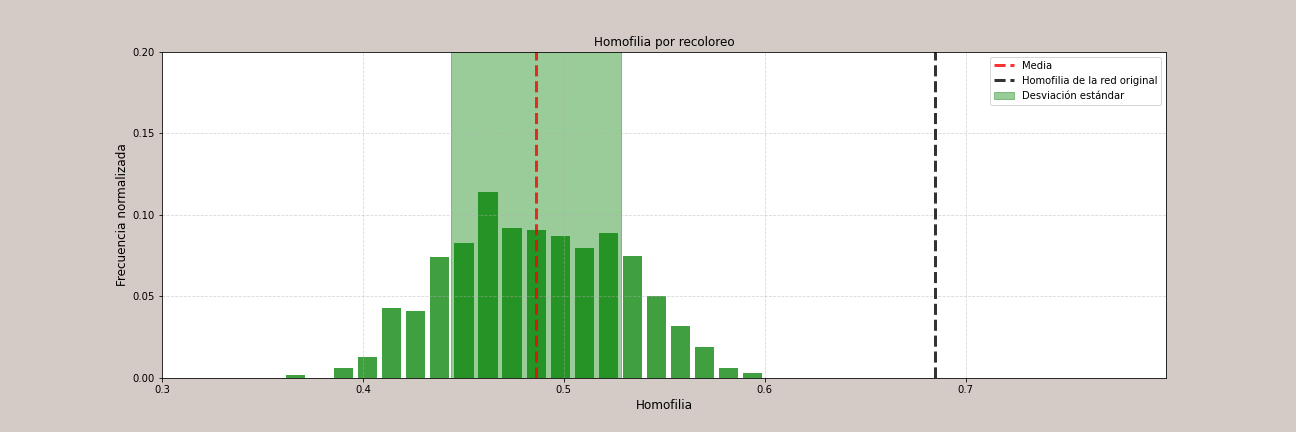
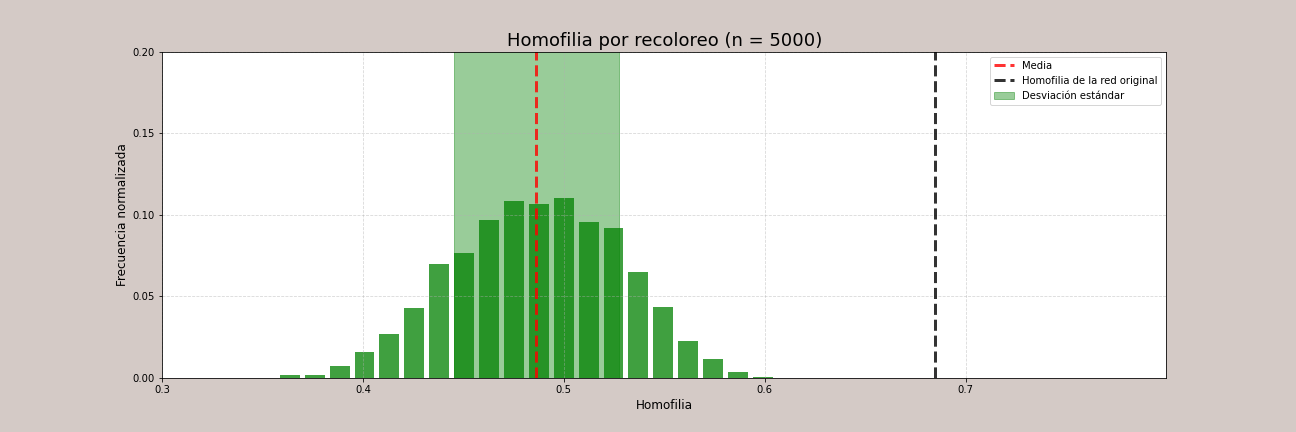
cambiio

Changed region(s): [[0.3395, 0.4213, 0.5864, 0.8727], [0.4012, 0.0602, 0.6481, 0.1204], [0.2469, 0.6921, 0.3395, 0.8727]]

diff --git a/Analisis de la red.py b/Analisis de la red.py
@@ -35,7 +35,7 @@ plt.xlabel("Grado",fontsize = 16)
 plt.ylabel("Cantidad de nodos",fontsize = 16)
 plt.tick_params(axis='both', which='major', labelsize=14)
 plt.title("Distribución de grado (log-log)")
-plt.savefig("distribucion de grado.png")
+# plt.savefig("distribucion de grado.png")
 plt.show()
 
 
@@ -64,7 +64,7 @@ G_copia = G.copy()
 lista_genero = [i[1]["genero"] for i in G.nodes(data=True)]
 
 homofilia = []
-n = 1000
+n = 5000
 
 for i in range(n): 
     random.shuffle(lista_genero) 
@@ -87,10 +87,10 @@ ax.set_ylabel("Frecuencia normalizada", fontsize=12)
 ax.set_ylim(0,0.2)
 ax.set_yticks(np.arange(0,0.21,0.05))
 ax.set_xticks(np.arange(0.3,0.8,0.1))
-plt.title("Homofilia por recoloreo")
+plt.title("Homofilia por recoloreo (n = 5000)",fontsize = 18)
 ax.set_xlim(0.3,0.8)
 ax.legend(loc = 'best')
-plt.savefig("Homofilia por recoloreo.png")
+# plt.savefig("Homofilia por recoloreo.png")
 plt.show()
 
 
